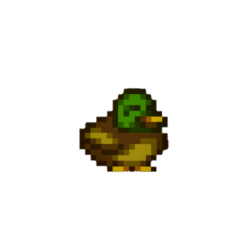
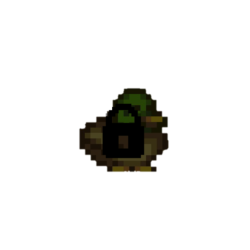
동물 자물쇠 이미지 추가
- 누를때 밀리는건 추후 수정.

Changed region(s): [[0.336, 0.364, 0.644, 0.7]]

diff --git a/main.html b/main.html
@@ -117,13 +117,13 @@
             <img src="./image_main/milk_cow.png" alt="젖소" />
             <div class="item-cow">+1</div>
           </button>
-          <img src="./image_main/wood_patmal.png" id="locked_animal" class="lockImg imgFn1" />
+          <img src="./image_main/image_button_click/milk_cow2.png" id="locked_animal" class="lockImg imgFn1" />
 
           <button id="animal3" class="animalBtn">
             <img src="./image_main/sheep.png" alt="양" />
             <div class="item-sheep">+1</div>
           </button>
-          <img src="./image_main/wood_patmal.png" id="locked_animal" class="lockImg imgFn2" />
+          <img src="./image_main/image_button_click/sheep2.png" id="locked_animal" class="lockImg imgFn2" />
         </div>
 
         <div id="line2">
@@ -131,24 +131,26 @@
             <img src="./image_main/duck.png" alt="오리" />
             <div class="item-duck">+1</div>
           </button>
-          <img src="./image_main/wood_patmal.png" id="locked_animal" class="lockImg imgFn3" />
+          <img src="./image_main/image_button_click/duck2.png" id="locked_animal" class="lockImg imgFn3" />
 
           <button id="animal5" class="animalBtn">
             <img src="./image_main/goat.png" alt="염소" />
             <div class="item-goat">+1</div>
           </button>
-          <img src="./image_main/wood_patmal.png" id="locked_animal" class="lockImg imgFn4" />
+          <img src="./image_main/image_button_click/goat2.png" id="locked_animal" class="lockImg imgFn4" />
 
           <button id="animal6" class="animalBtn">
             <img src="./image_main/pig.png" alt="돼지" />
             <div class="item-pig">+1</div>
           </button>
-          <img src="./image_main/wood_patmal.png" id="locked_animal" class="lockImg imgFn5" />
+          <img src="./image_main/image_button_click/pig2.png" id="locked_animal" class="lockImg imgFn5" />
         </div>
 
         <footer class="footer_main">
-          <button class="custom-btn btn-15" id="sell">Sell</button>
-          <button class="custom-btn btn-15" id="miniGame">Game I</button>
+          <button class="custom-btn btn-15" id="sell"><p class="asd">레벨업</p></button>
+          <button class="custom-btn btn-15" id="miniGame"><p class="asd">판매</p></button>
+          <button class="custom-btn btn-15" id="miniGame"><p class="asd">미니게임</p></button>
+          <button class="custom-btn btn-15" id="miniGame"><p class="asd">슬롯머신</p></button>
         </footer>
       </div>
     </div>

diff --git a/main.css b/main.css
@@ -31,8 +31,8 @@ body {
   align-items: center;
 }
 #box .lockImg {
-  width: 20%;
-  height: 30%;
+  height: 46%;
+  width: 14%;
 }
 #box .lockImg.invisible {
   display: none;
@@ -291,7 +291,7 @@ header #request img {
 
 #line1,
 #line2 {
-  height: 33%;
+  height: 30%;
   display: flex;
   justify-content: space-around;
   align-items: center;
@@ -367,7 +367,7 @@ header #request img {
   text-shadow: 0px 5px 2px #000;
   padding: 10px 25px;
   font-family: 'NeoDunggeunmoPro-Regular';
-  font-size: 50px;
+  font-size: 40px;
   font-weight: 500;
   cursor: pointer;
   position: relative;
@@ -375,14 +375,21 @@ header #request img {
   bottom: 20px;
 }
 .footer_main .btn-15 {
-  background: url('./image_main/wood_patmal.png') no-repeat;
+  background: url('./image_main/wood_btn.png') no-repeat;
   background-size: 100%;
   border: none;
   z-index: 1;
+  display: flex;
+  justify-content: center;
+  align-items: center;
+}
+.asd{
+  position: absolute;
+  bottom: 35px;
 }
 
 .footer_main .btn-15:active {
-  top: 1px;
+  top: -16px;
 }
 
 /* 메뉴 css 부분 */

diff --git a/main.js b/main.js
@@ -227,7 +227,7 @@ duckEggPrice = 180;
 goatsMilkPrice = 300;
 trufflePrice = 500000;
 
-let totalMoney = 0;
+let totalMoney = 1000000000;
 
 const sellBtn = document.getElementById("asd");
 sellBtn.addEventListener("click", () => {
